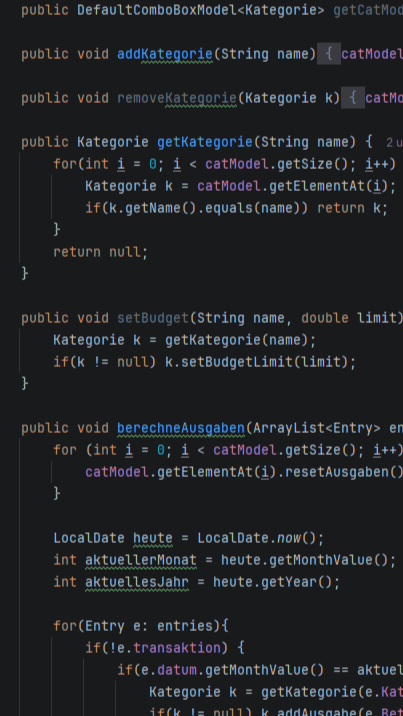
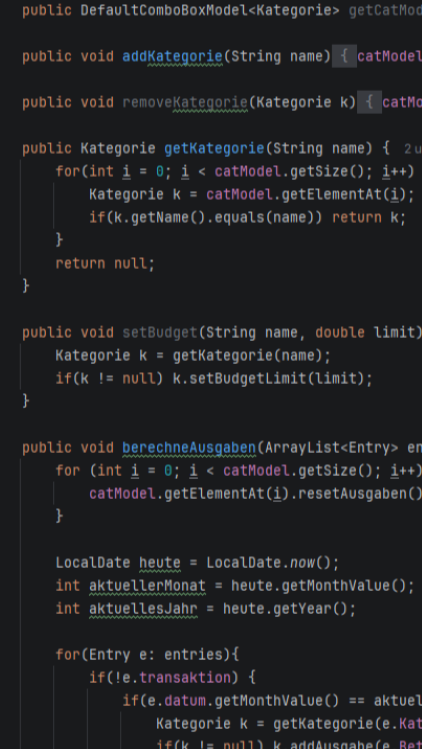
feat: sticky header

diff --git a/Projekt_Portfolio/src/styles.scss b/Projekt_Portfolio/src/styles.scss
@@ -1,5 +1,6 @@
 body {
  font-family: 'Inter', sans-serif;
+ margin: 0px;
 
   .title-div {
     position: relative;
@@ -13,6 +14,9 @@ body {
       font-size: 100px;
       letter-spacing:-4%;
       opacity: 75%;
+      h1 {
+        margin: 0px;
+      }
     }
     .keep-moving {
       font-family: "Italianno", cursive;
@@ -21,6 +25,9 @@ body {
       font-size: 128px;
       color: #FF9C08;
       position: absolute;
+      p{
+        margin: 0px;
+      }
     }
   }
 

diff --git a/Projekt_Portfolio/src/app/navigation/navigation.scss b/Projekt_Portfolio/src/app/navigation/navigation.scss
@@ -6,8 +6,10 @@
     background-color: #E5E5E5;
     border-radius: 90px;
     max-width: 600px;
-    margin: 45px auto; 
+    margin: auto; 
     position: relative;
+
+    box-shadow: 0 0 15px rgb(99, 99, 99);
 
     a {
         display: flex;

diff --git a/Projekt_Portfolio/src/app/app.html b/Projekt_Portfolio/src/app/app.html
@@ -1,5 +1,8 @@
 <header>
-    <app-navigation></app-navigation>
+    <nav>
+        <div class="nav-blur-bg"></div>
+        <app-navigation class="sticky"></app-navigation>
+    </nav>
 </header>
 <main>
     <router-outlet></router-outlet>

diff --git a/Projekt_Portfolio/src/app/app.scss b/Projekt_Portfolio/src/app/app.scss
@@ -1,0 +1,6 @@
+header {
+  position: sticky;
+  top: 0;
+  z-index: 100;
+  padding-top: 45px;
+}
